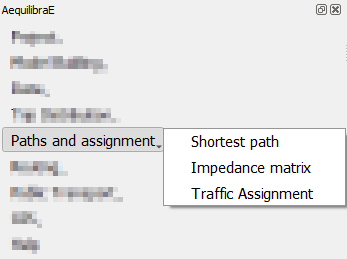
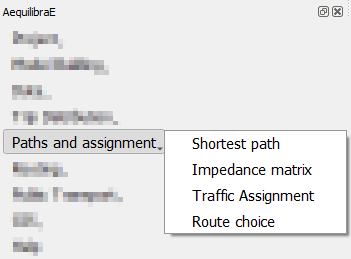
test and docs

diff --git a/qaequilibrae/modules/paths_procedures/route_choice_dialog.py b/qaequilibrae/modules/paths_procedures/route_choice_dialog.py
@@ -206,25 +206,36 @@ class RouteChoiceDialog(QDialog, FORM_CLASS):
         # parameter needs to be numeric
         if not self.max_routes.text().isdigit():
             self.error = "Max. routes needs to be a numeric integer value"
+        max_routes = int(self.max_routes.text())
 
         if not self.max_depth.text().isdigit():
             self.error = "Max. depth needs to be a numeric integer value"
+        max_depth = int(self.max_depth.text())
+
+        if max_depth <= 0 and max_routes <= 0:
+            self.error = "One of max. routes or max. depth has to be greater than 0"
 
         # Check cutoff
         if not self.ln_cutoff.text().replace(".", "").isdigit():
             self.error = "Probability cutoff needs to be a float number"
 
-        self.cutoff = float(self.ln_cutoff.text())
-        if self.cutoff < 0 or self.cutoff > 1:
+        cutoff = float(self.ln_cutoff.text())
+        if cutoff < 0 or cutoff > 1:
             self.error = "Probability cutoff assumes values between 0 and 1"
 
-        # TODO: Check penalty
+        # Check penalty
+        if not self.penalty.text().replace(".", "").isdigit():
+            self.error = "Penalty needs to be a float number"
+
+        # Check PSL(beta)
+        if not self.ln_psl.text().replace(".", "").isdigit():
+            self.error = "PSL (beta) needs to be a float number"
 
         self.__kwargs = {
-            "max_routes": int(self.max_routes.text()),
-            "max_depth": int(self.max_depth.text()),
+            "max_routes": max_routes,
+            "max_depth": max_depth,
             "penalty": float(self.penalty.text()),
-            "cutoff_prob": self.cutoff,
+            "cutoff_prob": cutoff,
             "beta": float(self.ln_psl.text()),
         }
 
@@ -245,18 +256,17 @@ class RouteChoiceDialog(QDialog, FORM_CLASS):
         if not demand.replace(".", "").isdigit():
             self.error = "Wrong input value for demand"
 
-        if self.error:
-            qgis.utils.iface.messageBar().pushMessage(self.tr("Input error"), self.error, level=1, duration=5)
-            return
-
         nodes_of_interest = np.array([self.from_node, self.to_node], dtype=np.int64)
 
         graph = self.configure_graph()
         graph.prepare_graph(nodes_of_interest)
         graph.set_graph("utility")
 
-        if not self.__kwargs:
-            self.__get_parameters()
+        self.__get_parameters()
+
+        if self.error:
+            qgis.utils.iface.messageBar().pushMessage(self.tr("Input error"), self.error, level=1, duration=5)
+            return
 
         rc = RouteChoice(graph)
         rc.set_choice_set_generation(self.__algo, **self.__kwargs)
@@ -358,7 +368,7 @@ class RouteChoiceDialog(QDialog, FORM_CLASS):
         sub_area.rc.set_choice_set_generation(self.__algo, **self.__kwargs)
         sub_area.rc.execute(perform_assignment=True)
 
-        # I don't know why but origin and destination ID were assumed to be strings, which was
+        # I don't know why but origin and destination ID are assumed to be strings, which is
         # raising an error when assembling the COO Matrix. We use infer objects to ensure that
         # indexes are numeric integers (in this case)
         demand = sub_area.post_process().reset_index().infer_objects()
@@ -379,9 +389,9 @@ class RouteChoiceDialog(QDialog, FORM_CLASS):
 
         zones_gdf = geodataframe_from_layer(zones)
 
-        self._poly, crs = model_area_polygon(zones_gdf)
+        poly, crs = model_area_polygon(zones_gdf)
 
-        return gpd.GeoDataFrame(geometry=[self._poly], crs=crs)
+        return gpd.GeoDataFrame(geometry=[poly], crs=crs)
 
     def set_select_link_use(self):
         for item in [

diff --git a/test/test_route_choice.py b/test/test_route_choice.py
@@ -119,7 +119,6 @@ def create_matrix(index: np.ndarray, path: str):
     mat.matrices.flush()
 
 
-# @pytest.mark.skip("Not working")
 def test_sub_area_analysis(coquimbo_project, qtbot):
     pth = join(coquimbo_project.project.project_base_path, "matrices/demand.aem")
     create_matrix(np.arange(1, 134), pth)
@@ -162,6 +161,11 @@ def test_sub_area_analysis(coquimbo_project, qtbot):
     dialog.chb_save_choice_set.setChecked(True)
     dialog.cob_matrices.setCurrentText("b''")
     qtbot.mouseClick(dialog.but_perform_assig, Qt.LeftButton)
+
+    pth = Path(dialog.project.project_base_path)
+    conn = sqlite3.connect(pth / "results_database.sqlite")
+    results = [x[0] for x in conn.execute("SELECT name FROM sqlite_master WHERE type ='table'").fetchall()]
+    assert "route_choice_for_subarea_uncompressed" in results
 
 
 def test_select_link_analysis(coquimbo_project, qtbot):

diff --git a/docs/source/menus_in_detail/pathscomputation.rst b/docs/source/menus_in_detail/pathscomputation.rst
@@ -181,6 +181,15 @@ layer will be automatically joined with the links layer.
 
 Now we can revisit the instructions for :ref:`siouxfalls-stacked-bandwidth`
 
+Route choice
+------------
+
+With route choice sub-module it is possible to create choice sets through multiple algorithms
+and also assign trips to the network using the traditional path-size logit. Route choice
+procedure tab looks like this:
+
+
+
 .. Video tutorial
 .. ~~~~~~~~~~~~~~
 
